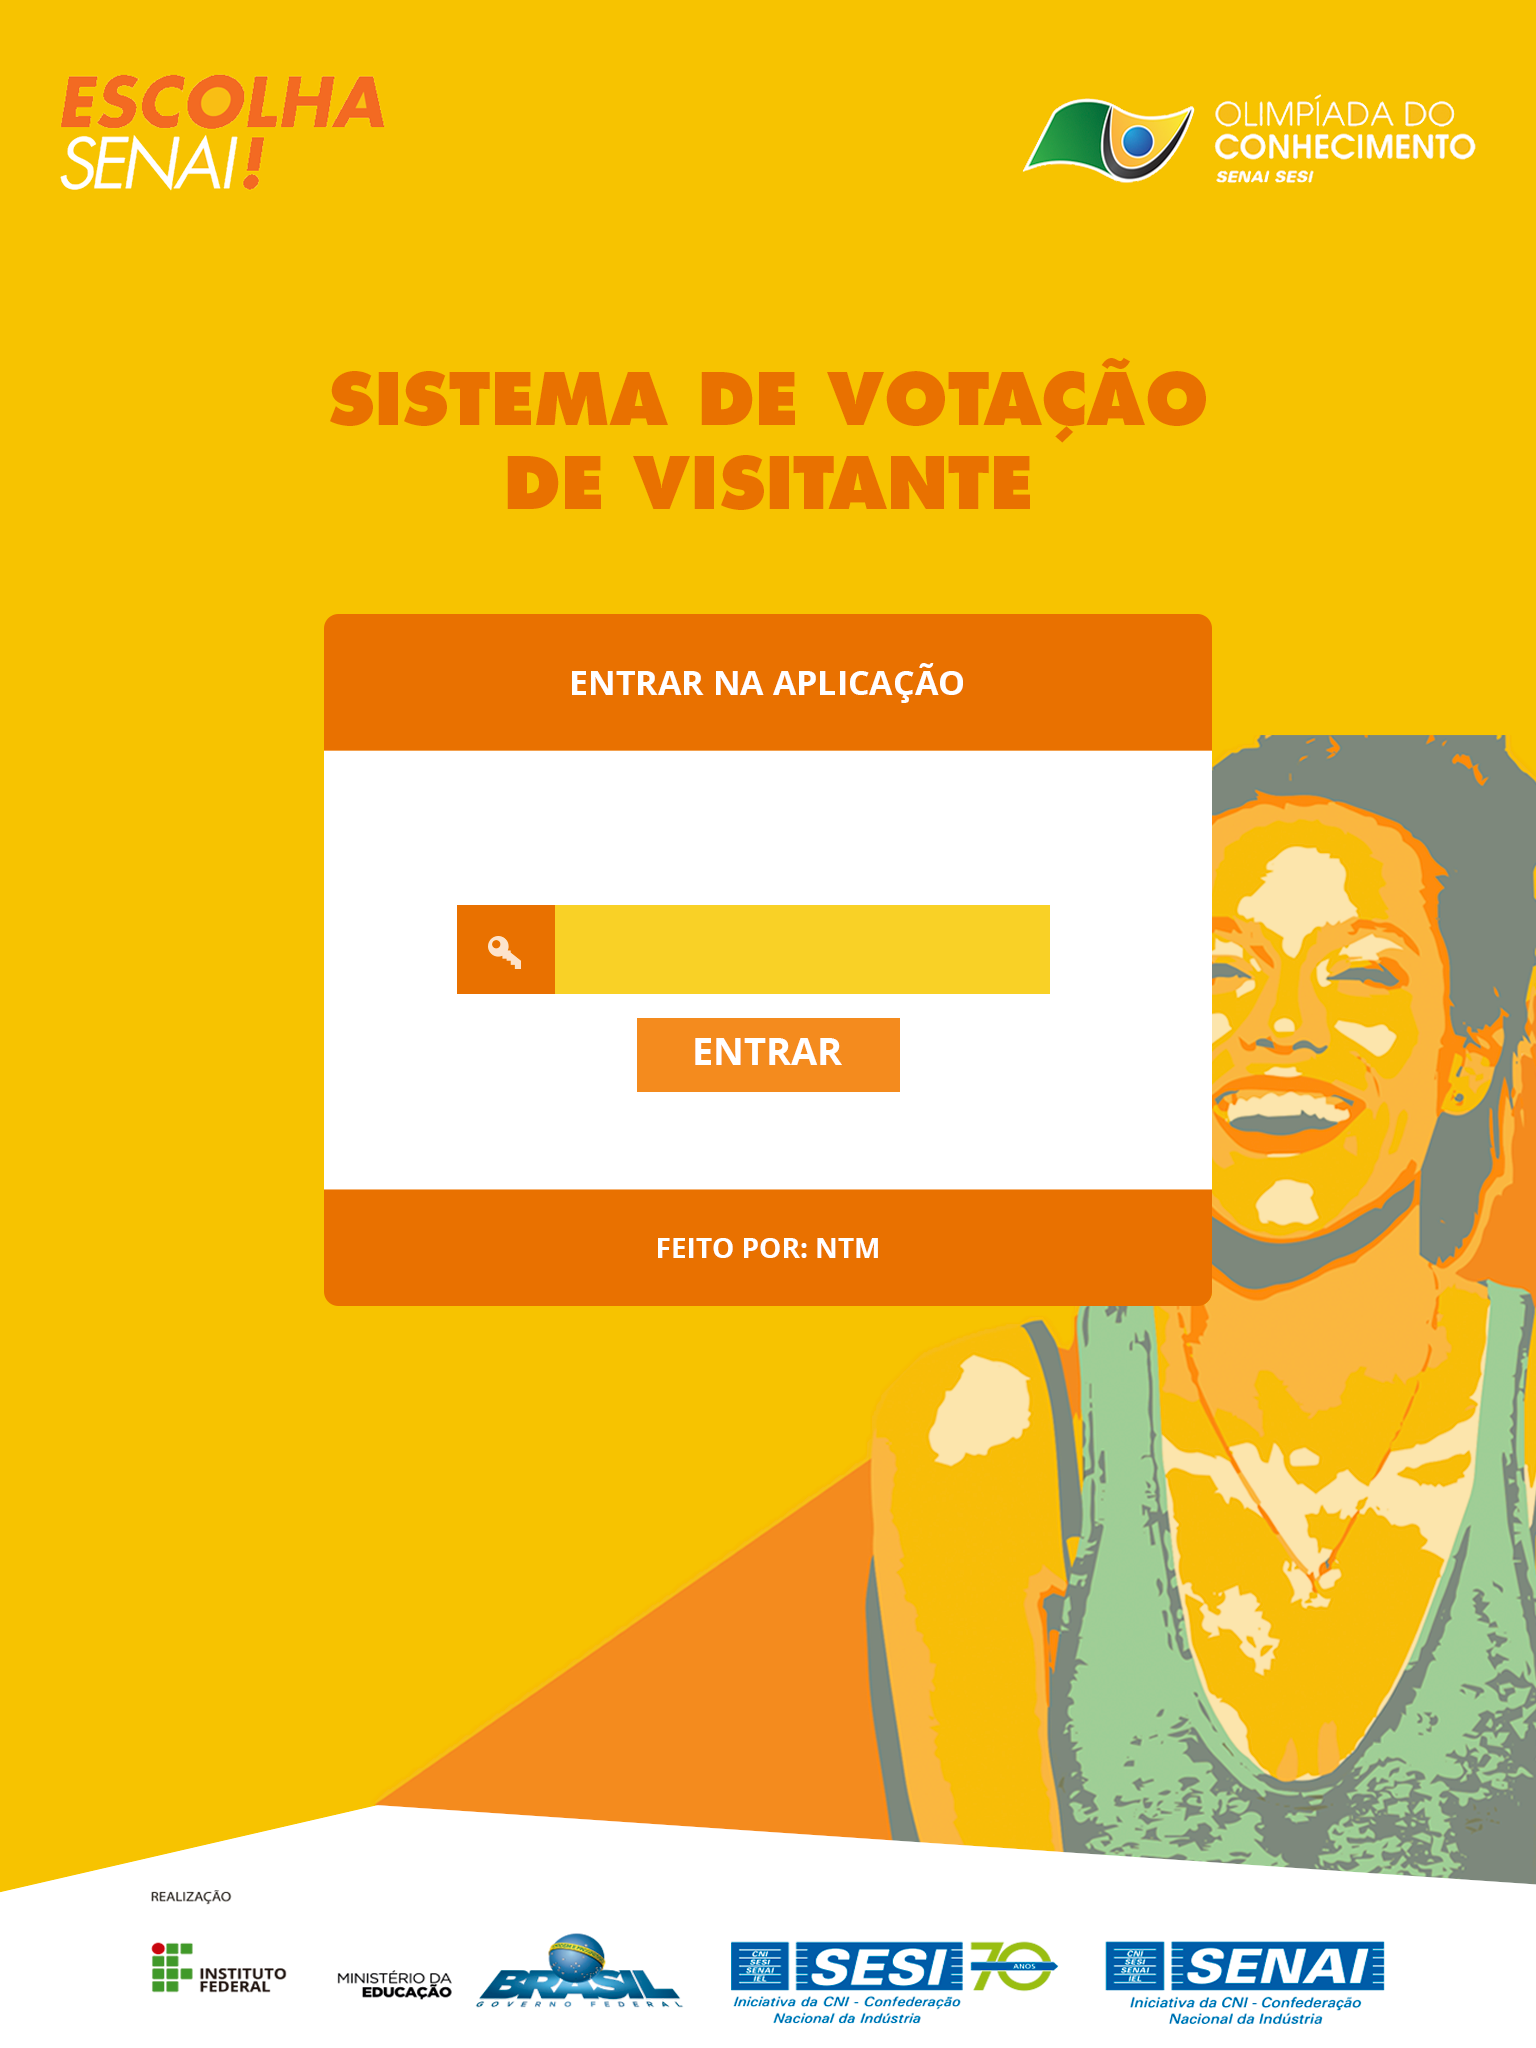
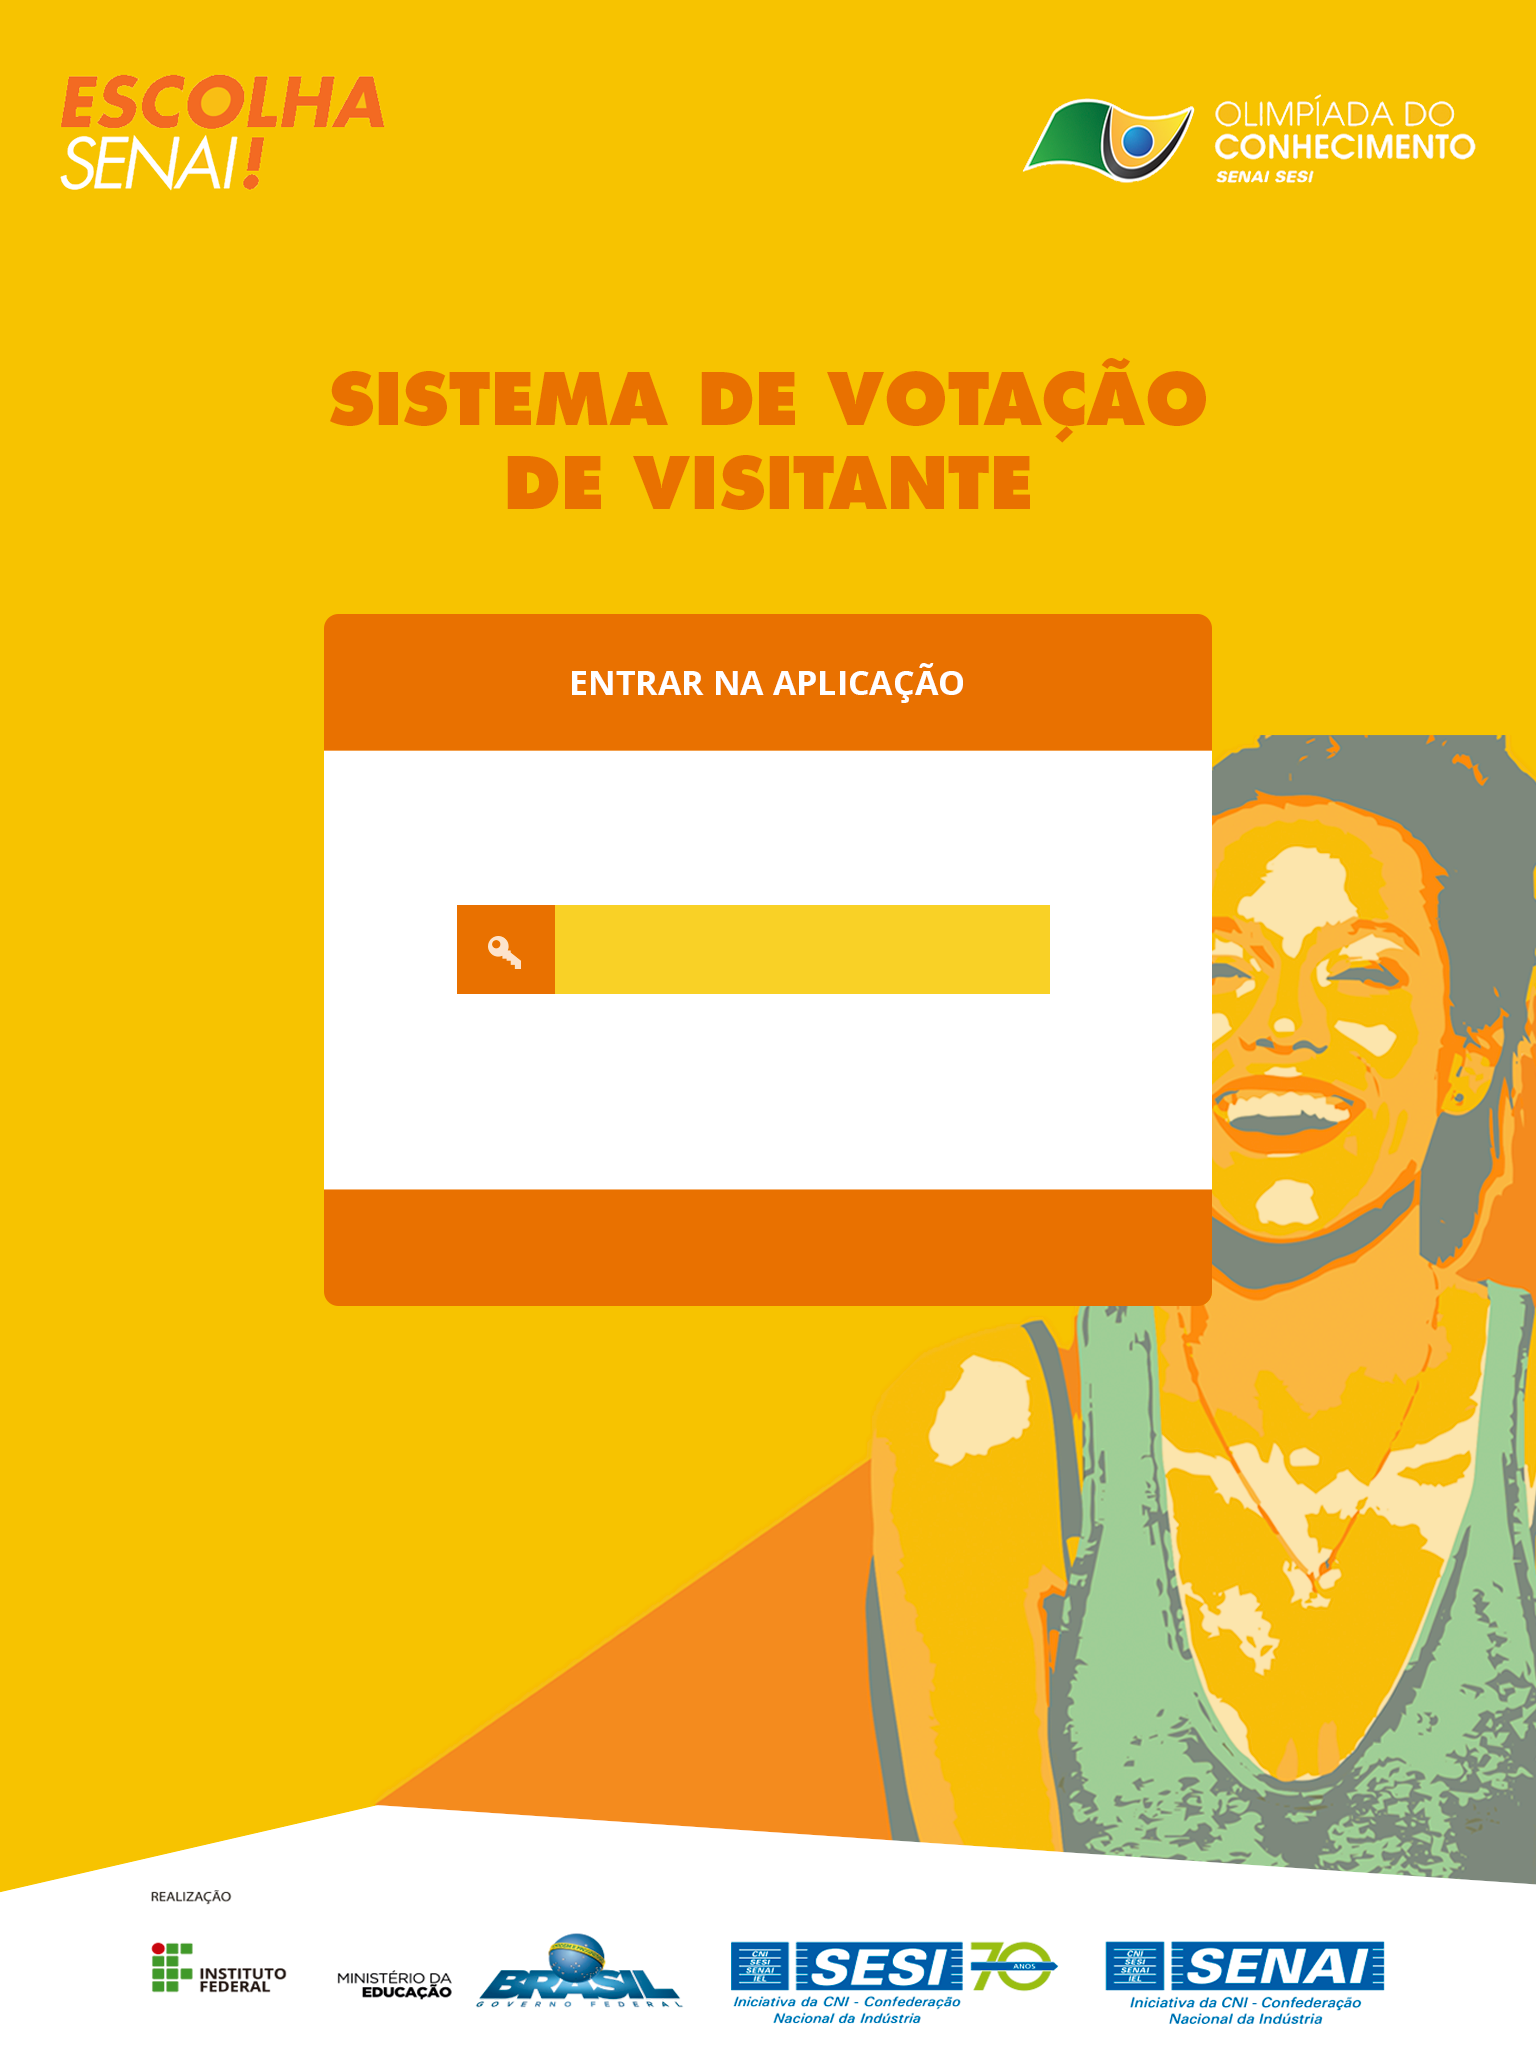
adição do layout da tela de login

Changed region(s): [[0.4062, 0.5, 0.5938, 0.5312], [0.4375, 0.5938, 0.5625, 0.625]]

diff --git a/assets/css/app.css b/assets/css/app.css
@@ -48,7 +48,10 @@ body, html{
 	transition: 2s;
 }
 #login{
-	background: url('assets/img/f_login.png') no-repeat left top;
+	background: url('../img/f_login.png') no-repeat left top;
+}
+#login div{
+	margin-top: 30vh;
 }
 #outdiv{
 	z-index: 49;
@@ -230,8 +233,29 @@ h3{
 	padding: 2vh 15vw;
 	background: #4578a0;
 }
+#hash_pw{
+	margin-top: 14.2vh;
+	height: 4.4vh;
+	width:  32vw;
+	margin-left: 4.4vw;
+	background-color: transparent;
+	padding: 1vh 2vw;
+	color: white;
+	font-size: 2vmax;
+}
+#hash_pw::-webkit-input-placeholder{
+	color: white;
+	font-family: "Futura Bold";
+}
 #entrar{
-	font-size: 15vw;
+	font-weight: lighter;    
+	font-size: 2.5vw;
+	margin-top:  2vh;
+    color: white;
+    background-color: #e97100;
+    padding: 1vh 3vw;
+    font-family: "Futura Bold";
+    text-transform: uppercase;
 }
 .tarja{
 	text-transform: uppercase;

diff --git a/index.html b/index.html
@@ -14,7 +14,7 @@
 <div id="todo">
   <section id="login" class="caixa-input"  data-status="step-atual">
     <div> 
-      <input type="" name="">
+      <input placeholder="hash de segurança" type="password" name="hash" id="hash_pw"><br>
       <button type="button" name="entrar" id="entrar">Entrar</button>
     </div>
   </section>
